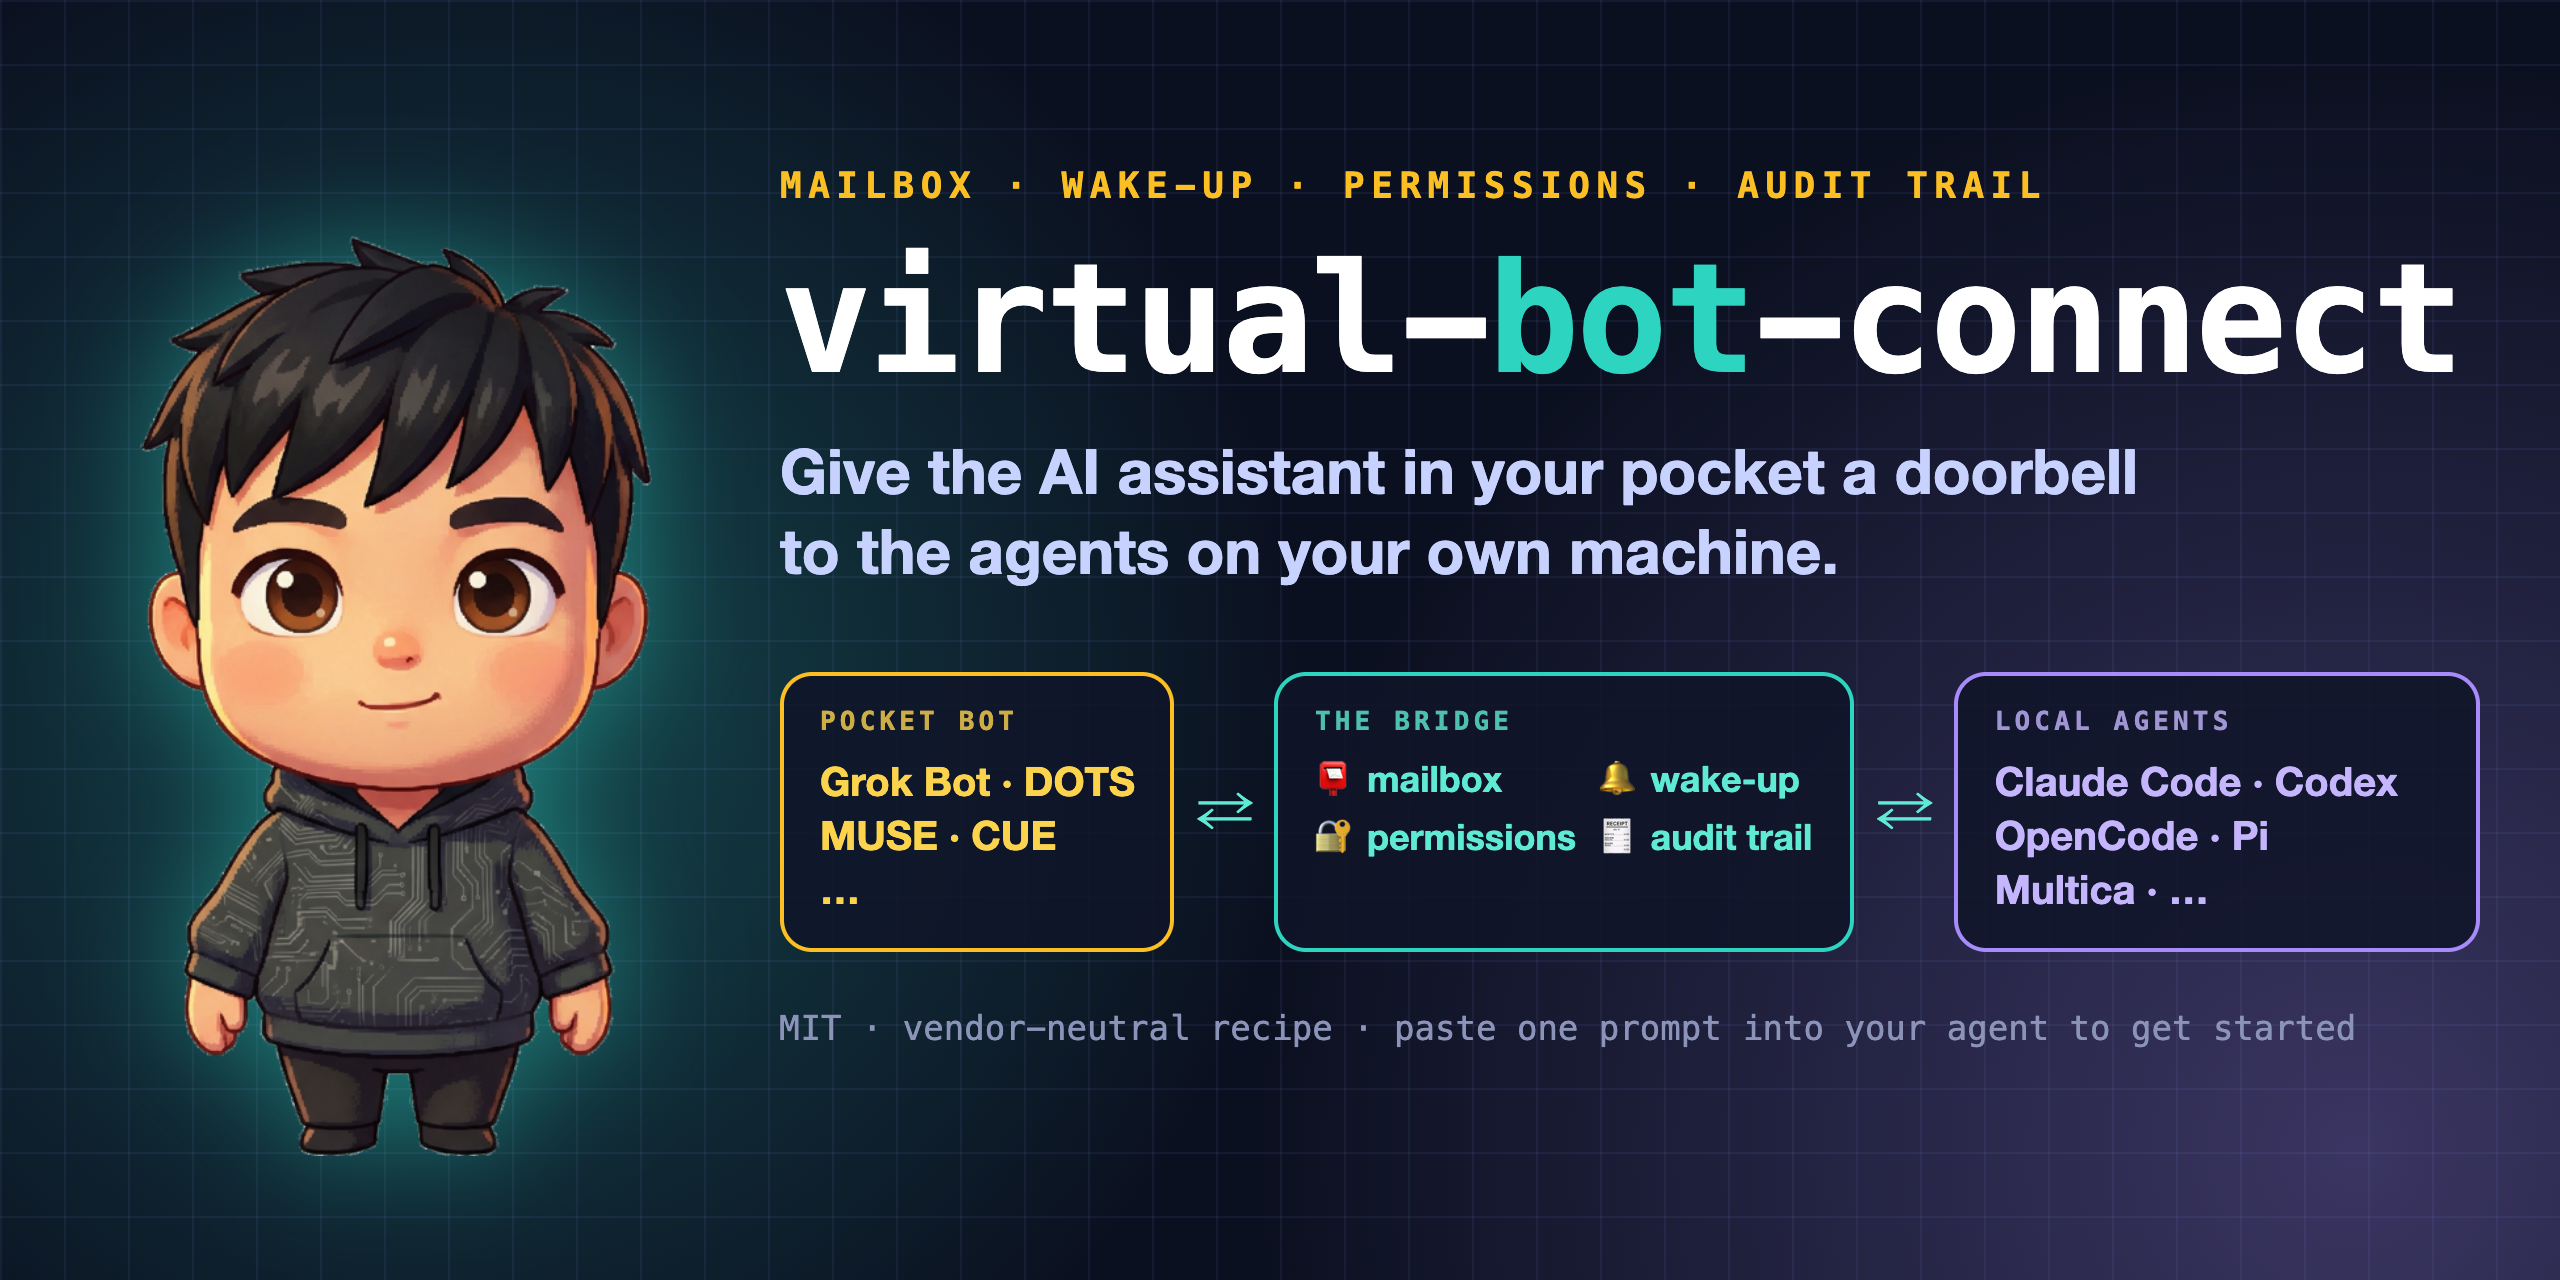
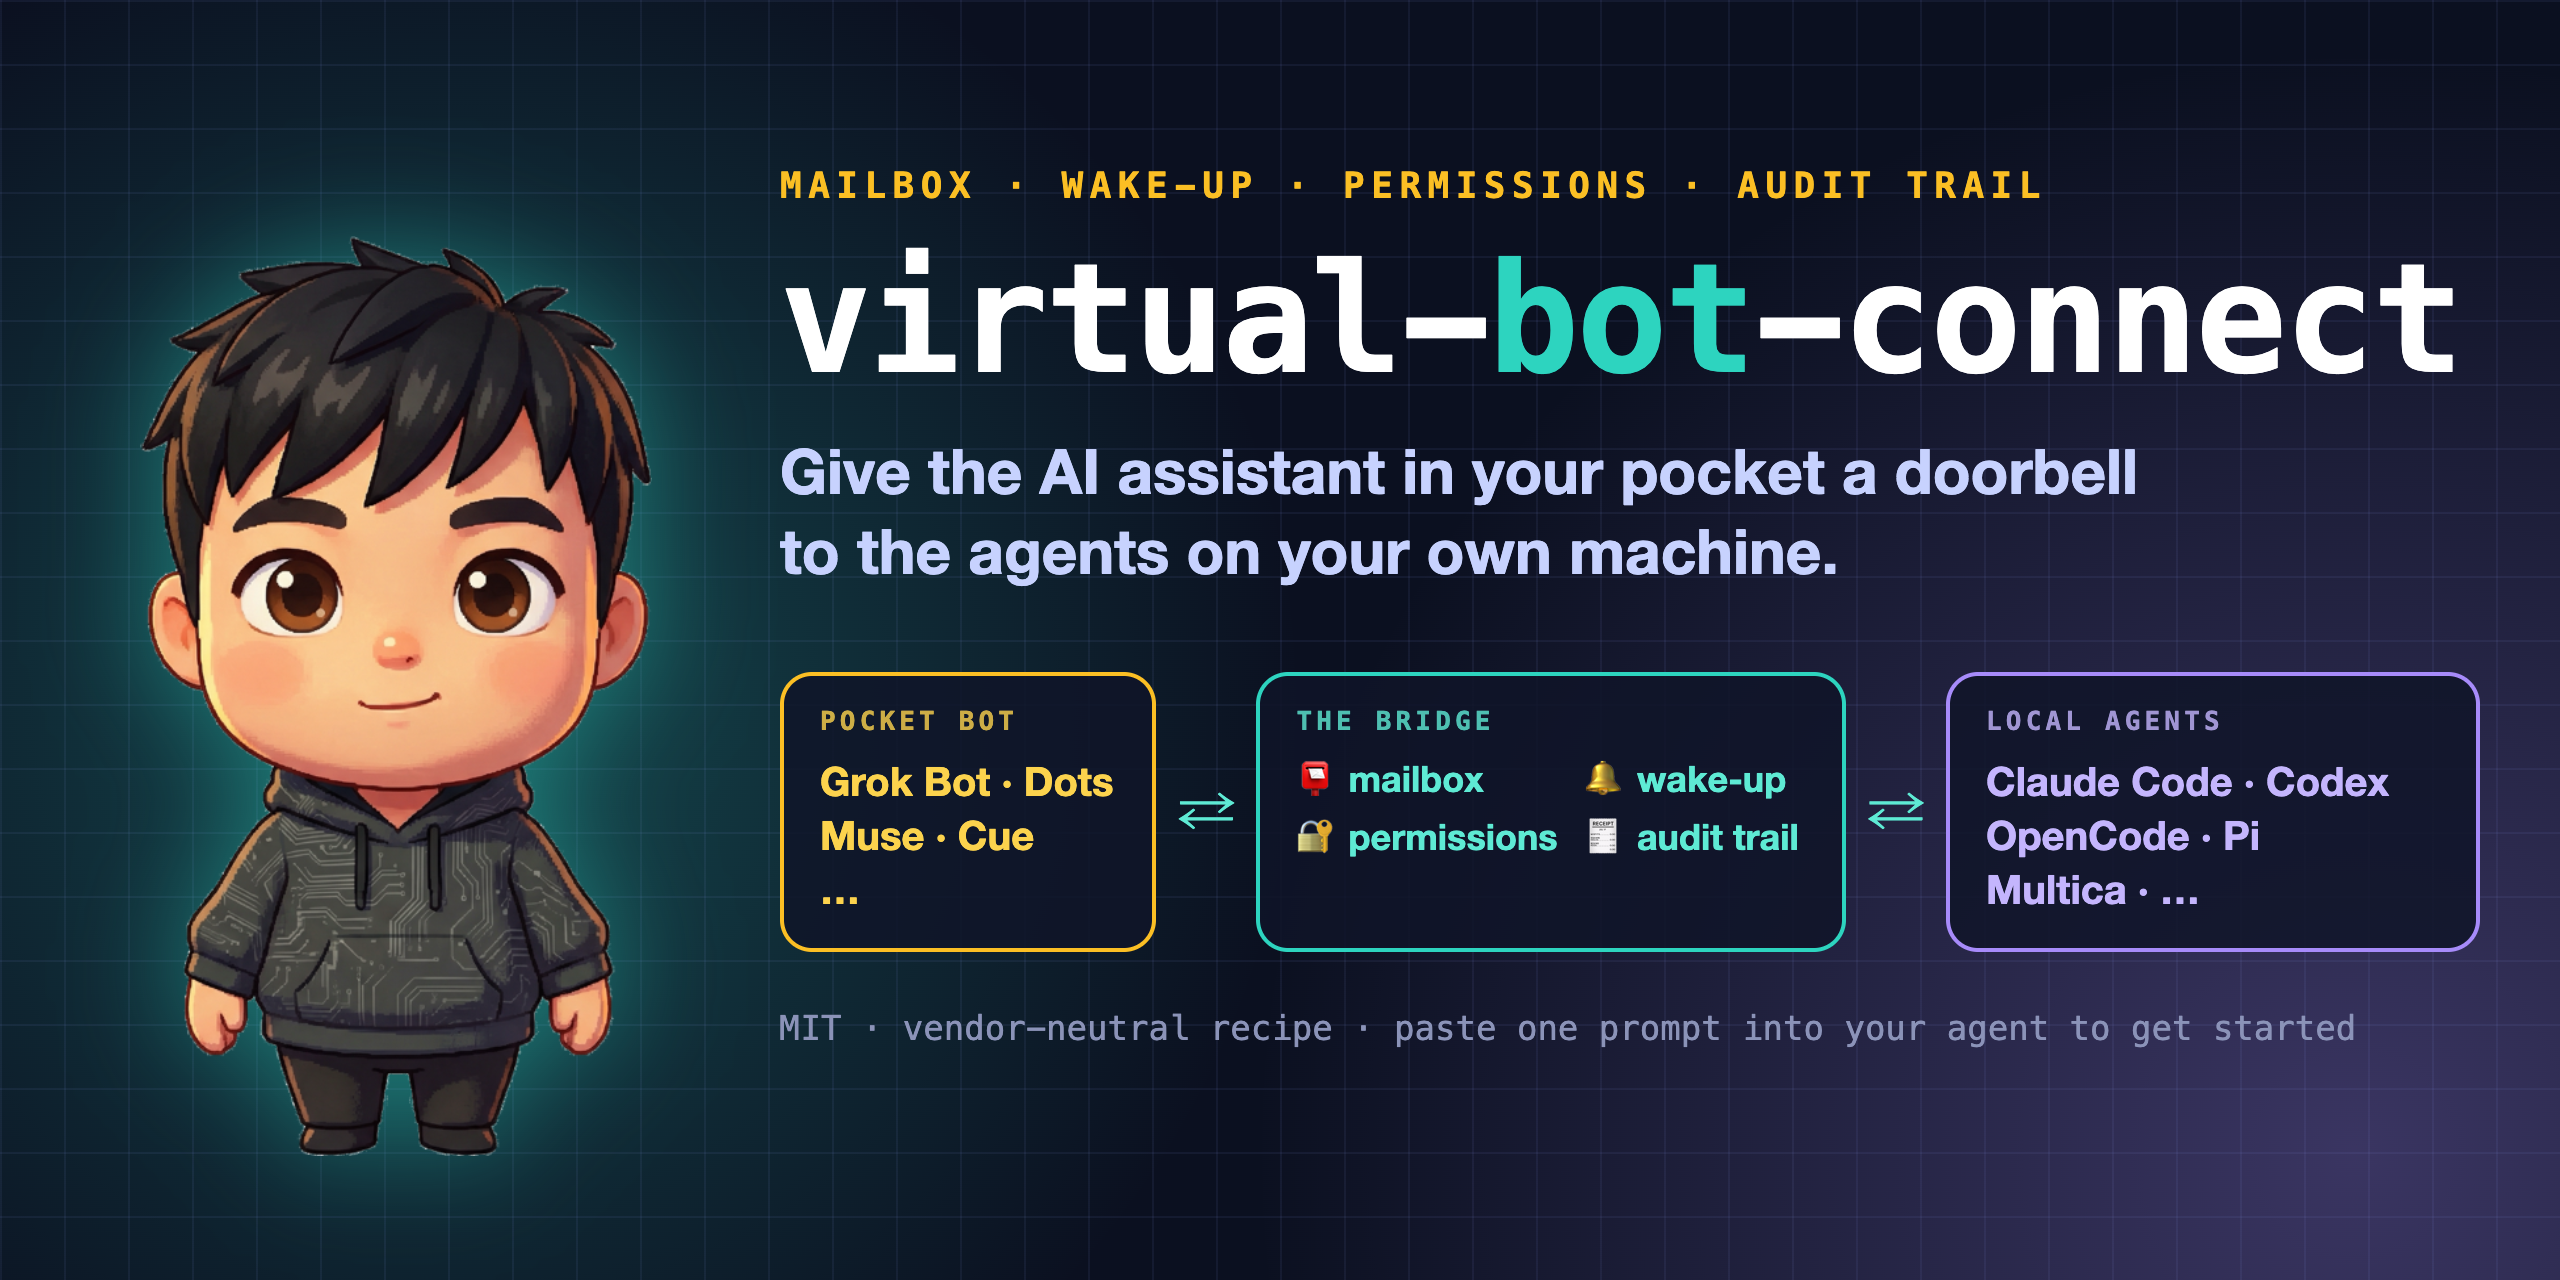
Use official bot names: Dots, Muse, Cue

Changed region(s): [[0.4062, 0.5312, 0.9375, 0.75], [0.3438, 0.625, 0.4062, 0.6875], [0.4375, 0.7188, 0.4688, 0.75]]

diff --git a/README.md b/README.md
@@ -10,7 +10,7 @@
   <a href="LICENSE"><img alt="MIT License" src="https://img.shields.io/badge/license-MIT-2dd4bf"></a>
   <img alt="Recipe, not a package" src="https://img.shields.io/badge/type-recipe%20%2B%20spec-a78bfa">
   <img alt="Local agents" src="https://img.shields.io/badge/local%20agents-Claude%20Code%20%7C%20Codex%20%7C%20OpenCode%20%7C%20Pi%20%7C%20Multica-fbbf24">
-  <img alt="Pocket bots" src="https://img.shields.io/badge/pocket%20bots-Grok%20Bot%20%7C%20DOTS%20%7C%20MUSE%20%7C%20CUE-f472b6">
+  <img alt="Pocket bots" src="https://img.shields.io/badge/pocket%20bots-Grok%20Bot%20%7C%20Dots%20%7C%20Muse%20%7C%20Cue-f472b6">
   <a href="https://github.com/kkunkunya/virtual-bot-connect/stargazers"><img alt="GitHub stars" src="https://img.shields.io/github/stars/kkunkunya/virtual-bot-connect?style=social"></a>
 </p>
 
@@ -18,7 +18,7 @@
 
 **A doorbell between your pocket AI and your home agents.**
 
-You chat with a personal-assistant bot on your phone (Grok Bot, DOTS, MUSE, CUE…). Your real work runs on your
+You chat with a personal-assistant bot on your phone (Grok Bot, Dots, Muse, Cue…). Your real work runs on your
 own machine, in Claude Code, Codex, OpenCode, Pi or a multi-agent setup like Multica — with your repos and your
 logins. Today you are the messenger between them: copy, paste, switch windows, check back later.
 
@@ -62,7 +62,7 @@ Full write-up with options for each piece: [docs/primitives.md](docs/primitives.
 
 ```mermaid
 flowchart LR
-  You["📱 You"] <-->|chat| Bot["Pocket assistant bot<br/>Grok Bot · DOTS · MUSE · CUE"]
+  You["📱 You"] <-->|chat| Bot["Pocket assistant bot<br/>Grok Bot · Dots · Muse · Cue"]
   Bot -->|"📮 drop a task<br/>(own key, shown 'via bot')"| Box[("Mailbox / bridge<br/>tickets · folder · queue")]
   Box -->|"🔔 wake-up<br/>@mention · watcher"| Agents["Local agents<br/>Claude Code · Codex · OpenCode · Pi · Multica"]
   Agents -->|"result + files<br/>{url, size, sha256}"| Box
@@ -78,7 +78,7 @@ The recipe is generic; one combination has been run on a real account so far. St
 | Side | Tool | What it needs to provide | Status |
 |---|---|---|---|
 | Pocket bot | **Grok Bot** | own cloud computer with shell, webhook-triggered routines | ✅ bot → Multica via CLI and Mac → bot over SSH verified · 🚧 live acceptance of the webhook wake-up in progress — [example](examples/kun-mac-multica-grok/) |
-| Pocket bot | DOTS · MUSE · CUE | a way to write to the mailbox (shell, HTTP, or tool call) and a way to be woken (webhook or schedule) | 🧪 untested — [checklist](docs/adding-a-new-bot.md) |
+| Pocket bot | Dots (OpenAI) · Muse (Meta) · Cue (Manus) | a way to write to the mailbox (shell, HTTP, or tool call) and a way to be woken (webhook or schedule) | 🧪 untested — [checklist](docs/adding-a-new-bot.md) |
 | Local agents | **Multica** | tickets/chats as the mailbox, `@agent` as the wake-up | ✅ verified (same example) |
 | Local agents | Claude Code · Codex · OpenCode · Pi | a non-interactive mode a watcher can start (`claude -p`, `codex exec`, `opencode run`, …) | 🧪 pattern documented, not yet verified |
 
@@ -129,7 +129,7 @@ woken. Run the [new-bot checklist](docs/adding-a-new-bot.md) first; it tells you
 - [x] Vendor-neutral write-up of the four pieces
 - [ ] Live acceptance of the Multica → Grok Bot wake webhook
 - [ ] Minimal folder-mailbox + watcher that wakes Claude Code / Codex / OpenCode, with a real round trip
-- [ ] Verified pages for DOTS, MUSE and CUE
+- [ ] Verified pages for Dots, Muse and Cue
 - [ ] Publish the Mac bridge script (sanitized)
 - [ ] Yobiru as a drop-in mailbox transport
 

diff --git a/CONTEXT.md b/CONTEXT.md
@@ -16,7 +16,7 @@
 | 术语 | 本项目中的含义 |
 | --- | --- |
 | Multica | 保存票、聊天、状态与审计的协作账本；本地智能体在这里接收工作。 |
-| 口袋 Bot / 云端 Bot | 使用者在手机上聊天的个人助理 Bot（如 Grok Bot、DOTS、MUSE、CUE），作为客户端读写信箱并发起协作，也可提供自带的云电脑。 |
+| 口袋 Bot / 云端 Bot | 使用者在手机上聊天的个人助理 Bot（如 Grok Bot、Dots、Muse、Cue），作为客户端读写信箱并发起协作，也可提供自带的云电脑。 |
 | 本地智能体 | 在使用者机器上运行、被叫醒后处理工作的智能体，如 Claude Code、Codex、OpenCode、Pi 或 Multica 里的智能体。 |
 | 远程主机 | 云端 Bot 的电脑；本地智能体可经 Tailscale 与 SSH 访问它来执行任务。 |
 

diff --git a/AGENTS.md b/AGENTS.md
@@ -25,7 +25,7 @@ using four pieces: **mailbox, wake-up, permissions, audit trail**. Read
 
 ### Step 1 — Interview the user (ask, don't guess)
 
-- Which pocket assistant bot? (Grok Bot, DOTS, MUSE, CUE, other.) More than one?
+- Which pocket assistant bot? (Grok Bot, Dots, Muse, Cue, other.) More than one?
 - Which local setup? (Claude Code, Codex, OpenCode, Pi, Multica, other.) One agent or several?
 - Is there already a shared place both could use (a ticket system with CLI/API, a folder reachable from both,
   a Tailscale network)?

diff --git a/docs/adding-a-new-bot.md b/docs/adding-a-new-bot.md
@@ -1,6 +1,6 @@
 # Adding a new bot
 
-Use this for any pocket assistant (Grok Bot, DOTS, MUSE, CUE, …) or a second bot on a platform you already use.
+Use this for any pocket assistant (Grok Bot, Dots, Muse, Cue, …) or a second bot on a platform you already use.
 The questions below decide which of the [four pieces](primitives.md) are possible; the Grok Bot answers are in
 [the example](../examples/kun-mac-multica-grok/grok.md).
 
